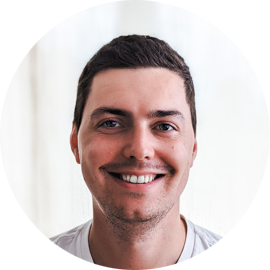
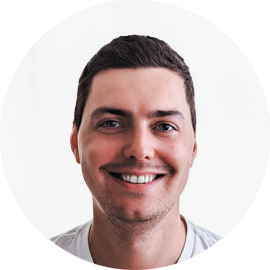
wip

diff --git a/app/page.tsx b/app/page.tsx
@@ -1,6 +1,6 @@
 import Image from 'next/image'
 
-import ProfilePicture from '../public/matthias-bayer-2.png'
+import ProfilePicture from '../public/matthias-bayer.png'
 
 export default function Home() {
   return (
